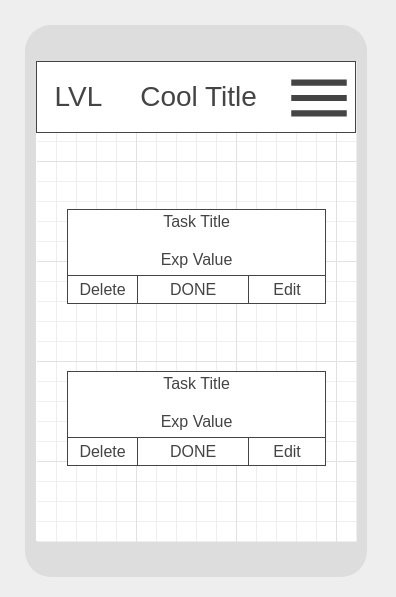
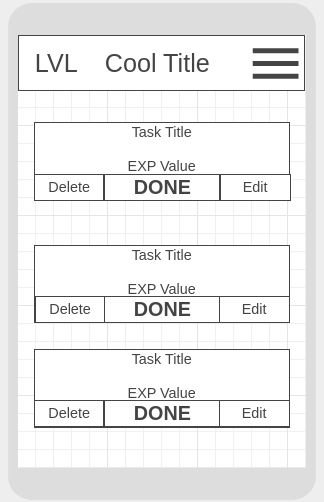
updated wireframe photos

diff --git a/README.md b/README.md
@@ -2,7 +2,7 @@
 
 ## Adventure-Tasks Description
 
-To have a task list type app that makes completing the tasks rewarding in an RPG-style way.
+To have a task To-Do list type app that makes completing the tasks rewarding in an RPG-style way. Giving user determined "experience" for clicking Done for whatever they need accomplished that day.
 
 ## Wireframes
 
@@ -16,91 +16,106 @@ To have a task list type app that makes completing the tasks rewarding in an RPG
 
 ## API and Data Sample
 
-Show us a snippet of JSON returned by your Airtable (you can find it under the API documentation) so we know you can access it and get the info you need. This __must__ be properly formatted. An example is below:
-
 ```json
 {
-    "records": [
-        {
-            "id": "recONRzIUTuZ5lXaF",
-            "fields": {
-                "author": "Liz Yrineo",
-                "setup": "Why did the tomato turn red?",
-                "punchline": "Because it saw the salad dressing!"
-            },
-            "createdTime": "2020-11-30T16:03:09.000Z"
-        },
-        {
-            "id": "rec3oYZ5Tp0AIDsKe",
-            "fields": {
-                "author": "Rachel Moskowitz",
-                "setup": "What did the green grape say to the red grape?",
-                "punchline": "Breathe, idiot, breathe!"
-            },
-            "createdTime": "2020-11-30T16:03:09.000Z"
-        },
-        {
-            "id": "recA34tOaoE1IVeC1",
-            "fields": {
-                "author": "Gary Grant",
-                "setup": "How do you make holy water?",
-                "punchline": "You boil the hell out of it!"
-            },
-            "createdTime": "2020-11-30T16:03:09.000Z"
+  "records": [
+    {
+      "id": "recF3zLyCo6MAtBc5",
+      "fields": {
+        "exp": 20,
+        "Task": "Take garbage out",
+        "description": "The build up of our various foes can lower moral, best to dispose of them. ",
+        "user": {
+          "id": "usrhkXYe2GfxUKMO5",
+          "email": "jesseeledath@gmail.com",
+          "name": "Jesse Eledath"
         }
-    ],
-    "offset": "recA34tOaoE1IVeC1"
+      },
+      "createdTime": "2021-02-16T16:39:10.000Z"
+    },
+    {
+      "id": "reckqe8hQtoStYHWm",
+      "fields": {
+        "Task": "Make breakfast",
+        "exp": 80,
+        "description": "No good can come from adventuring on an empty stomach. ",
+        "user": {
+          "id": "usrhkXYe2GfxUKMO5",
+          "email": "jesseeledath@gmail.com",
+          "name": "Jesse Eledath"
+        }
+      },
+      "createdTime": "2021-02-16T16:39:10.000Z"
+    },
+    {
+      "id": "recqsPPd1sosolGrC",
+      "fields": {
+        "exp": 10,
+        "Task": "Clean dishes",
+        "description": "Deal a death blow to the putrid filth. ",
+        "user": {
+          "id": "usrhkXYe2GfxUKMO5",
+          "email": "jesseeledath@gmail.com",
+          "name": "Jesse Eledath"
+        }
+      },
+      "createdTime": "2021-02-16T16:39:10.000Z"
+    }
+  ]
 }
 ```
 
-#### MVP 
+#### MVP
 
 - Have users POST tasks
 - Render tasks
-- Edit tasks/Delete them
-- Make a level up system
-- Completing tasks give levels
+- Edit tasks/Delete them using corresponding buttons
+- Clicking Done button give specified EXP
 
-#### PostMVP  
+#### PostMVP
 
 - Add Avatar
 - Use animations for completing tasks
 - Add level up sound
+- Make a level up system
 
 ## Project Schedule
 
-|  Day | Deliverable | Status
-|---|---| ---|
-|Feb 13-16| Prompt / Wireframes / Priority Matrix / Timeframes | Incomplete
-|Feb 16| Project Approval | Incomplete
-|Feb 16| Start Pseudocoding and creating components | Incomplete
-|Feb 17| Develope core features (the tasks/ level system) | Incomplete
-|Feb 18| Initial Clickable Model  | Incomplete
-|Feb 19-20| MVP/styling | Incomplete
-|Feb 23| Presentations | Incomplete
+| Day       | Deliverable                                        | Status     |
+| --------- | -------------------------------------------------- | ---------- |
+| Feb 13-16 | Prompt / Wireframes / Priority Matrix / Timeframes | Incomplete |
+| Feb 16    | Project Approval                                   | Incomplete |
+| Feb 16    | Start Pseudocoding and creating components         | Incomplete |
+| Feb 17    | Develope core features (the tasks/ level system)   | Incomplete |
+| Feb 18    | Initial Clickable Model                            | Incomplete |
+| Feb 19-20 | MVP/styling                                        | Incomplete |
+| Feb 23    | Presentations                                      | Incomplete |
 
 ## Timeframes
 
-| Component | Priority | Estimated Time | Time Invested | Actual Time |
-| --- | :---: |  :---: | :---: | :---: |
-| Initial React set up + API key | H | 1hrs|  |  |
-| Working with API/creating info | H | 3hrs|  |  |
-| Adding Form/requests | H | 3hrs|  | |
-| Creating Tasks/formatting them| H | 3hrs|  |  |
-| Creating sample Bio/Tasks | H | 3hrs|  |  |
-| Making Sidebar | H | 3hrs|  |  |
-| Adding EXP elements | H | 5hrs|  |  |
-| Making titles| H | 3hrs|  |  |
-| Adding Mobile hambuger menue | H | 5hrs|  |  |
-| Total | H | 29hrs|  | |
+| Component                      | Priority | Estimated Time | Time Invested | Actual Time |
+| ------------------------------ | :------: | :------------: | :-----------: | :---------: |
+| Initial React set up + API key |    H     |      1hrs      |               |             |
+| Working with API/creating info |    H     |      3hrs      |               |             |
+| Adding Form/requests           |    H     |      3hrs      |               |             |
+| Creating Tasks/formatting them |    H     |      3hrs      |               |             |
+| Creating sample Bio/Tasks      |    H     |      3hrs      |               |             |
+| Making Sidebar                 |    H     |      3hrs      |               |             |
+| Adding EXP elements            |    H     |      5hrs      |               |             |
+| Making titles                  |    H     |      3hrs      |               |             |
+| Adding Mobile hambuger menue   |    H     |      5hrs      |               |             |
+| Total                          |    H     |     29hrs      |               |             |
 
 ## SWOT Analysis
 
 ### Strengths:
-I feel good about the wrieframe/ hierarchy and now know what to do in the order that it should be done.
+
+I feel good about the wireframe/ hierarchy and now know what to do in the order that it should be done.
+
 ### Weaknesses:
-I can imagine me getting hung up on the finer details and not being as timely with the core objectives.
+
+I can imagine me getting hung up on the finer details and not being as timely with the core objectives. Furthermore without the implementation of user profiles finding ways to circumvent the limitations of the technology seem difficult to surmount.
+
 ### Opportunities:
-?
-### Threats:
-?
+
+Making this App should give me great experince in general layouts that are intuitive to the user and using all elements of CRUD in a sensible way for the user experince.
